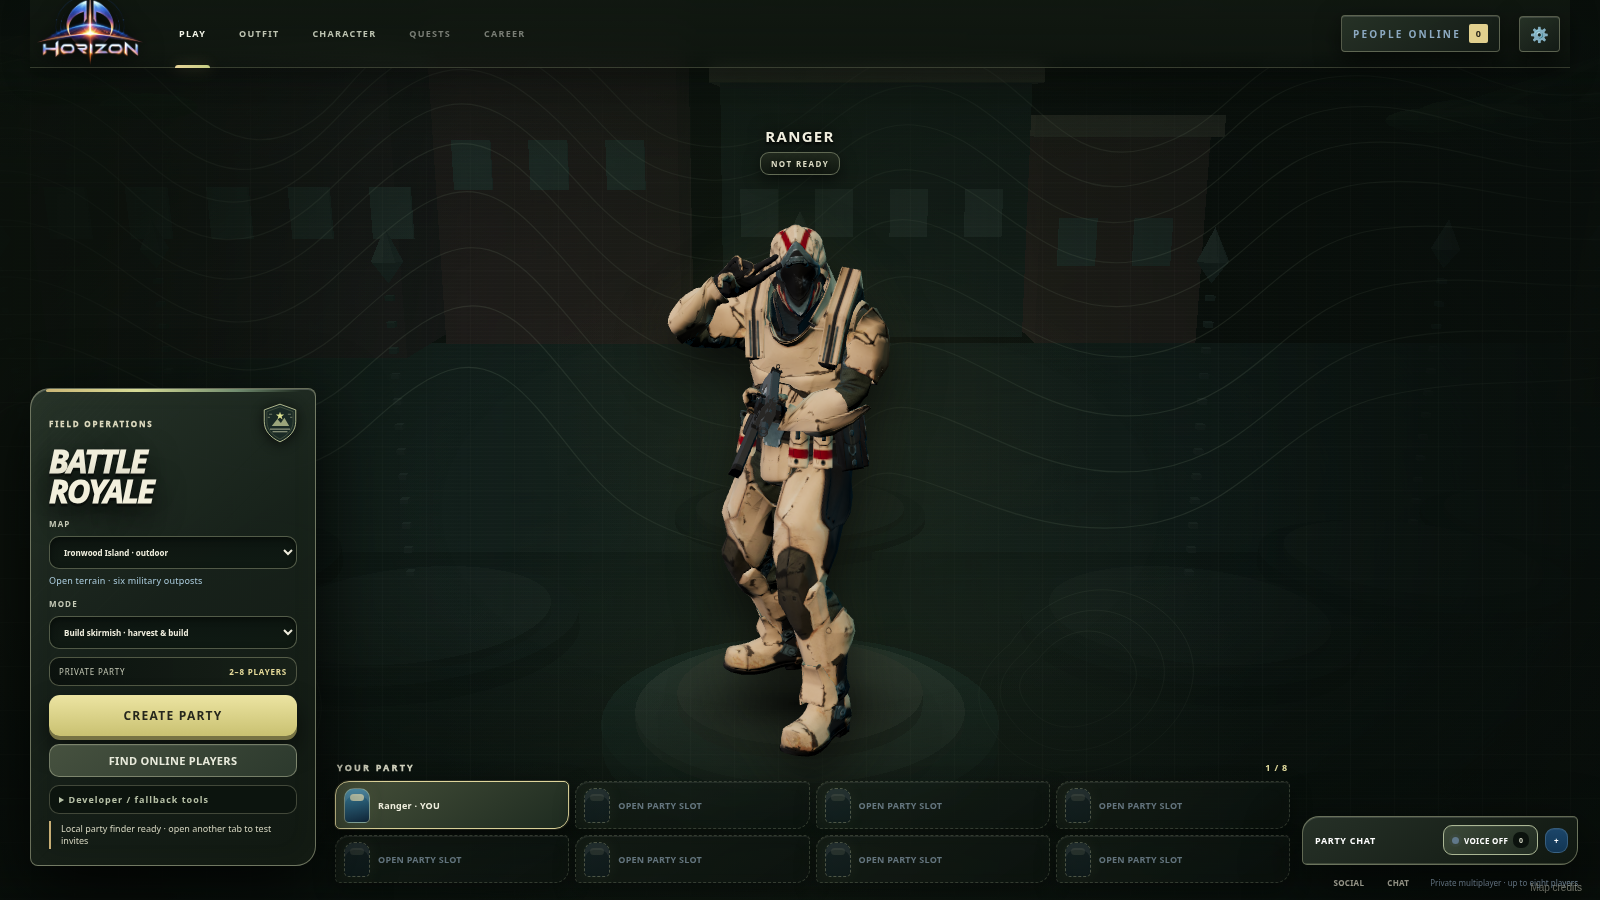
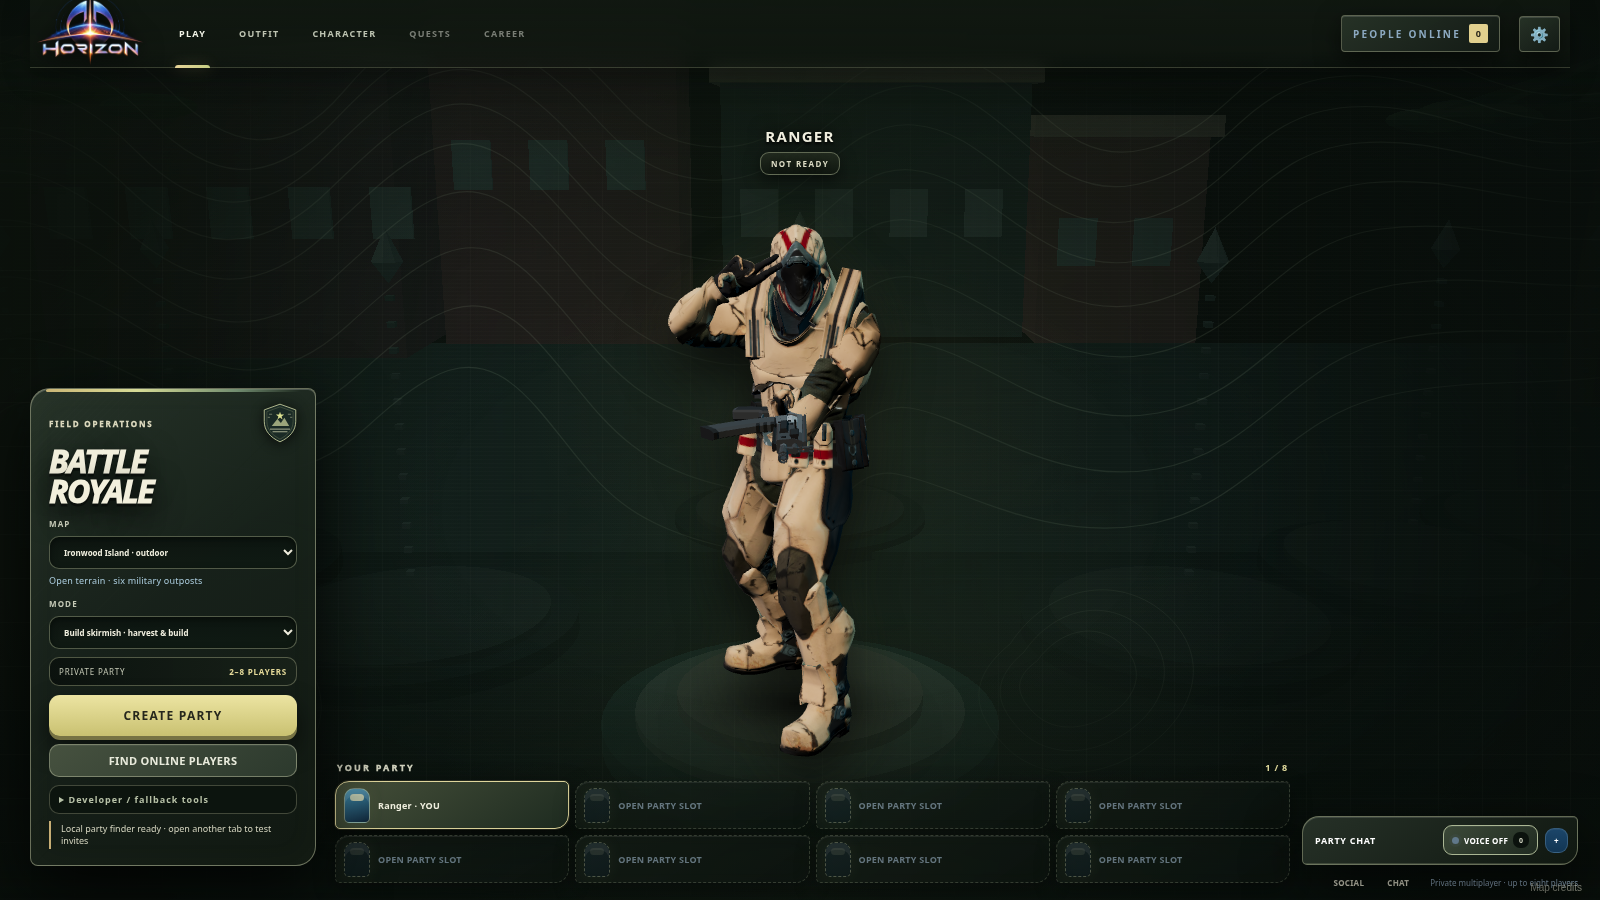
Lay lobby rifle horizontally across soldier torso

Changed region(s): [[0.4375, 0.3111, 0.5625, 0.5289], [0.4375, 0.3111, 0.4688, 0.3733]]

diff --git a/public/lobby-characters.js b/public/lobby-characters.js
@@ -59,7 +59,7 @@ if(canvas){
   const c=mount.userData.calibration;
   instance.holder.updateMatrixWorld(true);
   const shoulders=['right','left'].map(side=>instance.holder.worldToLocal(instance.bones.get(`mixamorig${side}arm`).getWorldPosition(new THREE.Vector3()))),center=shoulders[0].add(shoulders[1]).multiplyScalar(.5);
-  mount.position.set(center.x+.16,center.y-.28,center.z-.16);mount.rotation.set(0,0,.42);instance.holder.updateMatrixWorld(true);
+  mount.position.set(center.x+.16,center.y-.28,center.z-.16);mount.rotation.set(0,0,1.5);instance.holder.updateMatrixWorld(true);
   const grip=new THREE.Vector3(...c.grip),point=value=>mount.localToWorld(new THREE.Vector3(...value).sub(grip).multiplyScalar(c.scale));
   const right=point(c.rightPalm),node=mount.userData.nodes.get(c.supportNode);
   let left=node?node.getWorldPosition(new THREE.Vector3()).add(mount.userData.supportOffset.clone().multiplyScalar(c.scale).applyQuaternion(mount.getWorldQuaternion(new THREE.Quaternion()))):point(c.support);
